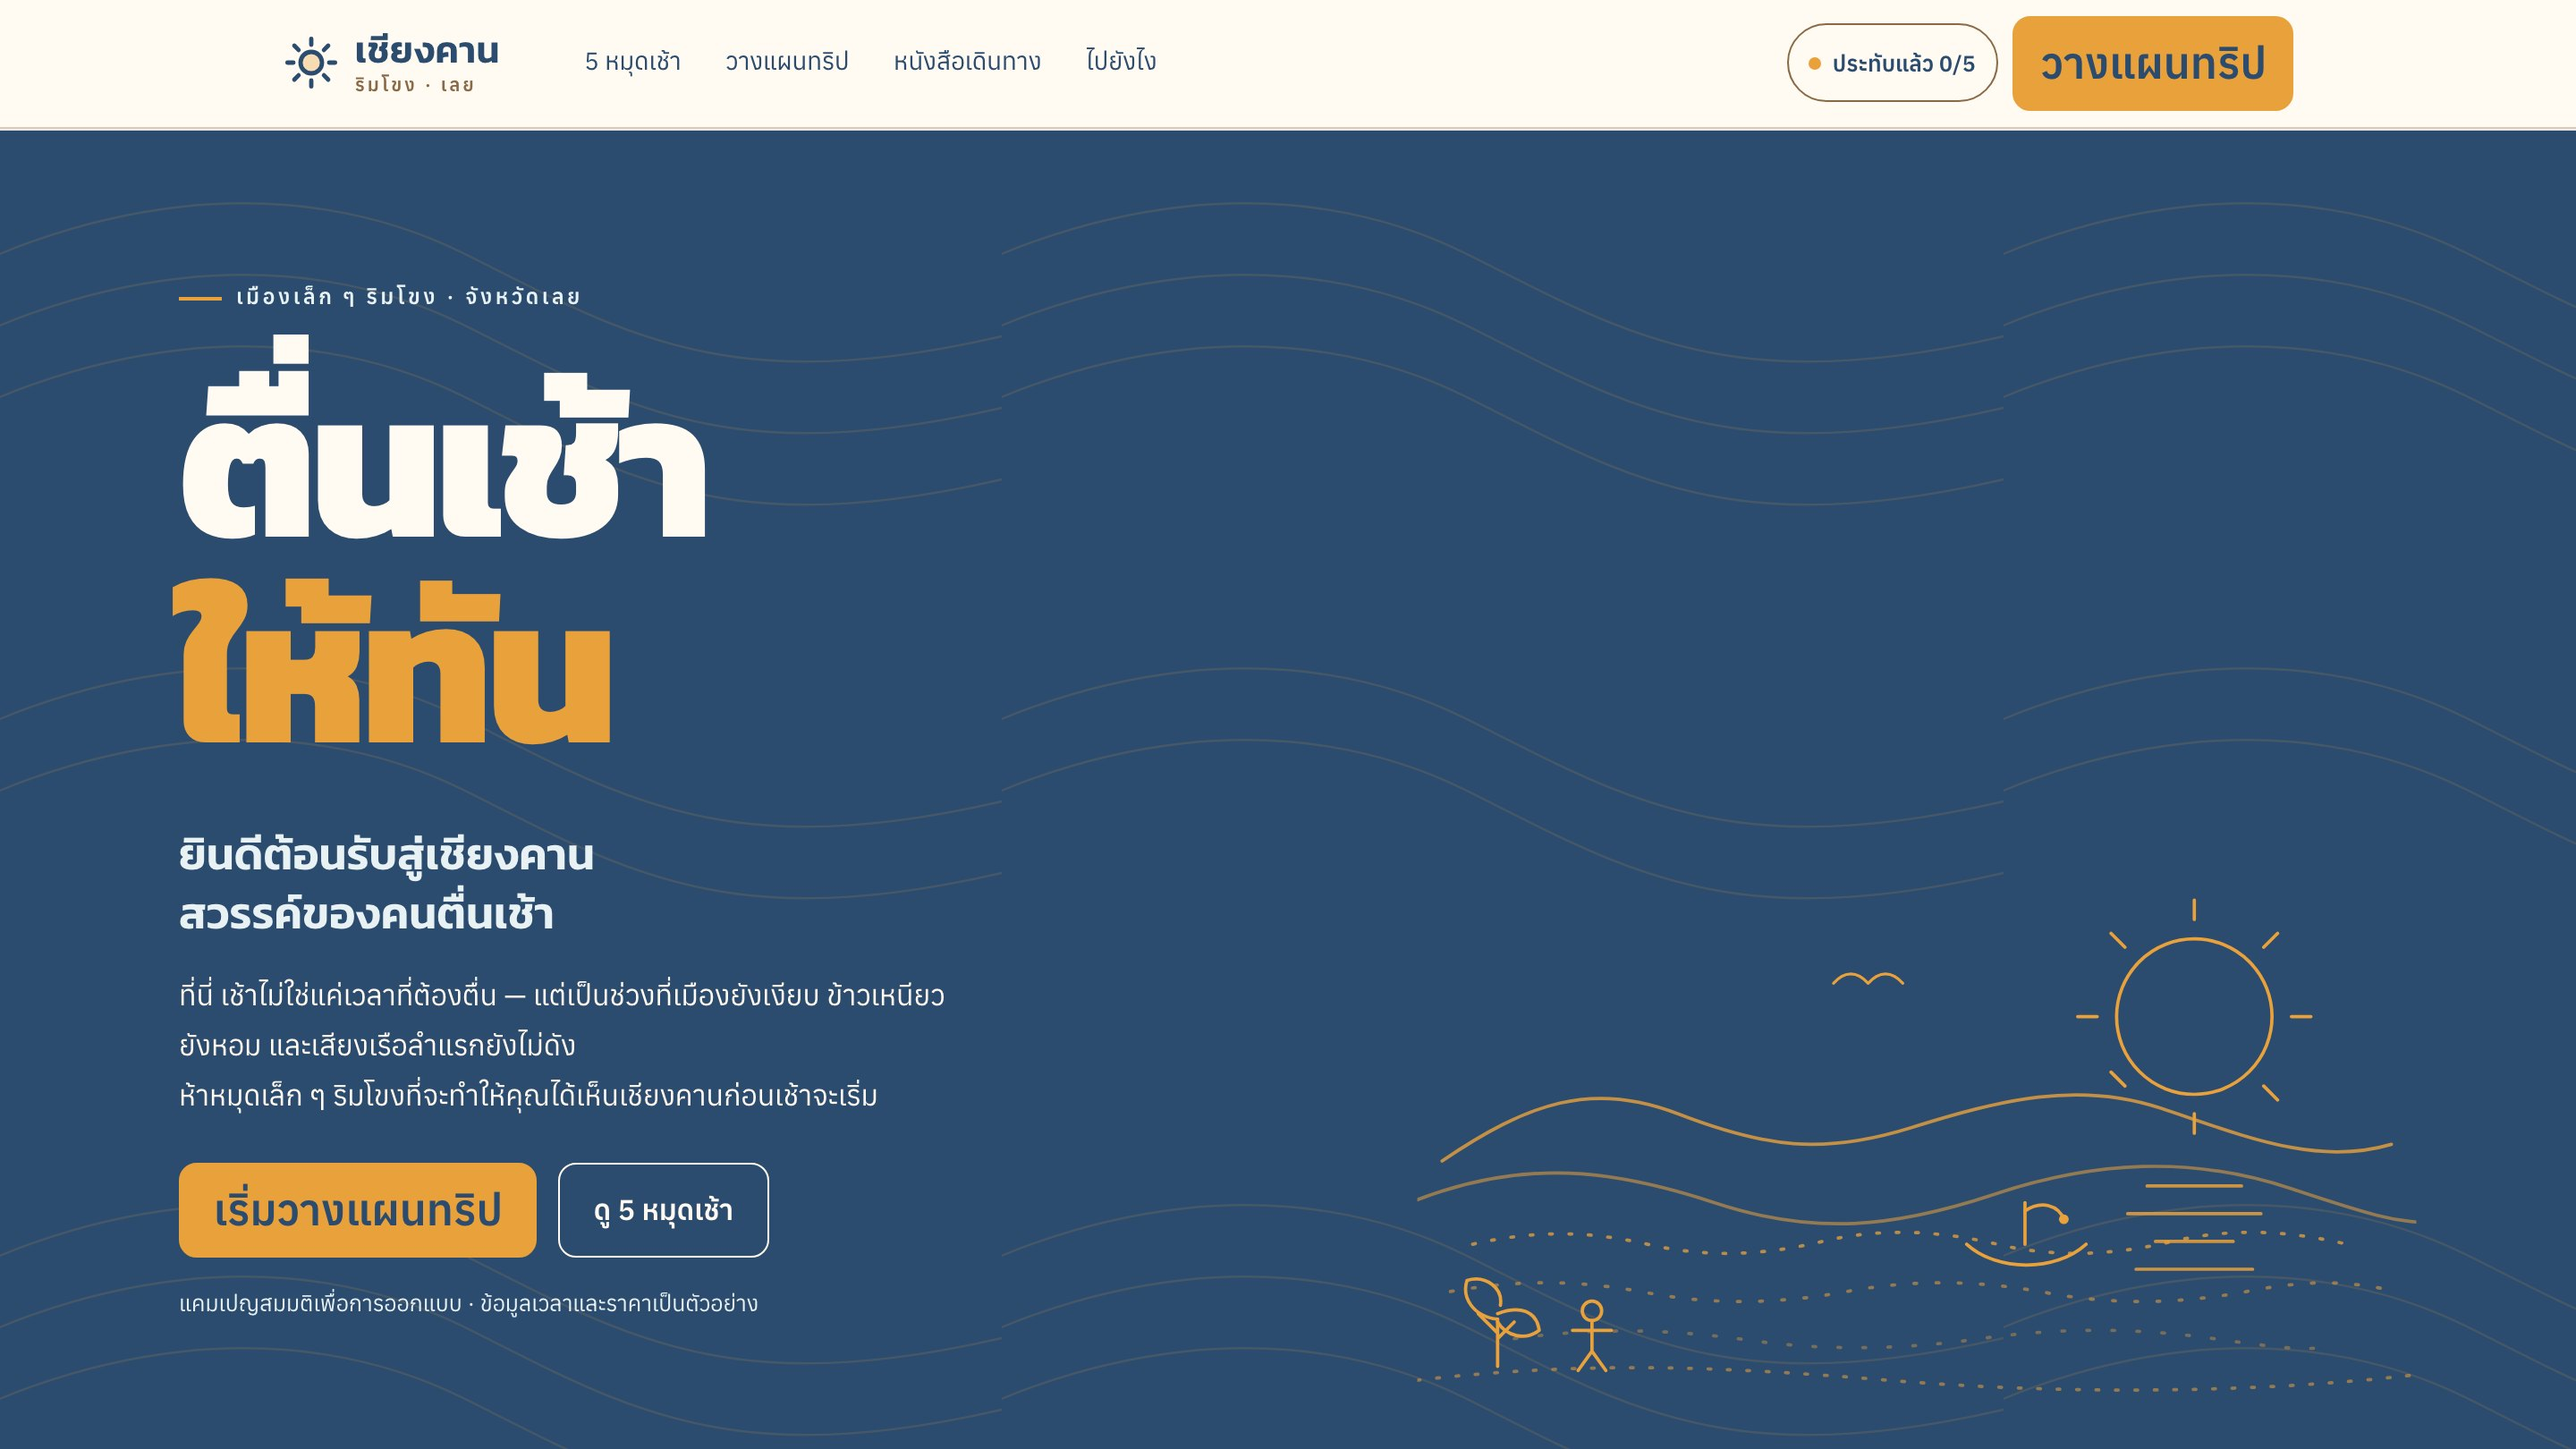
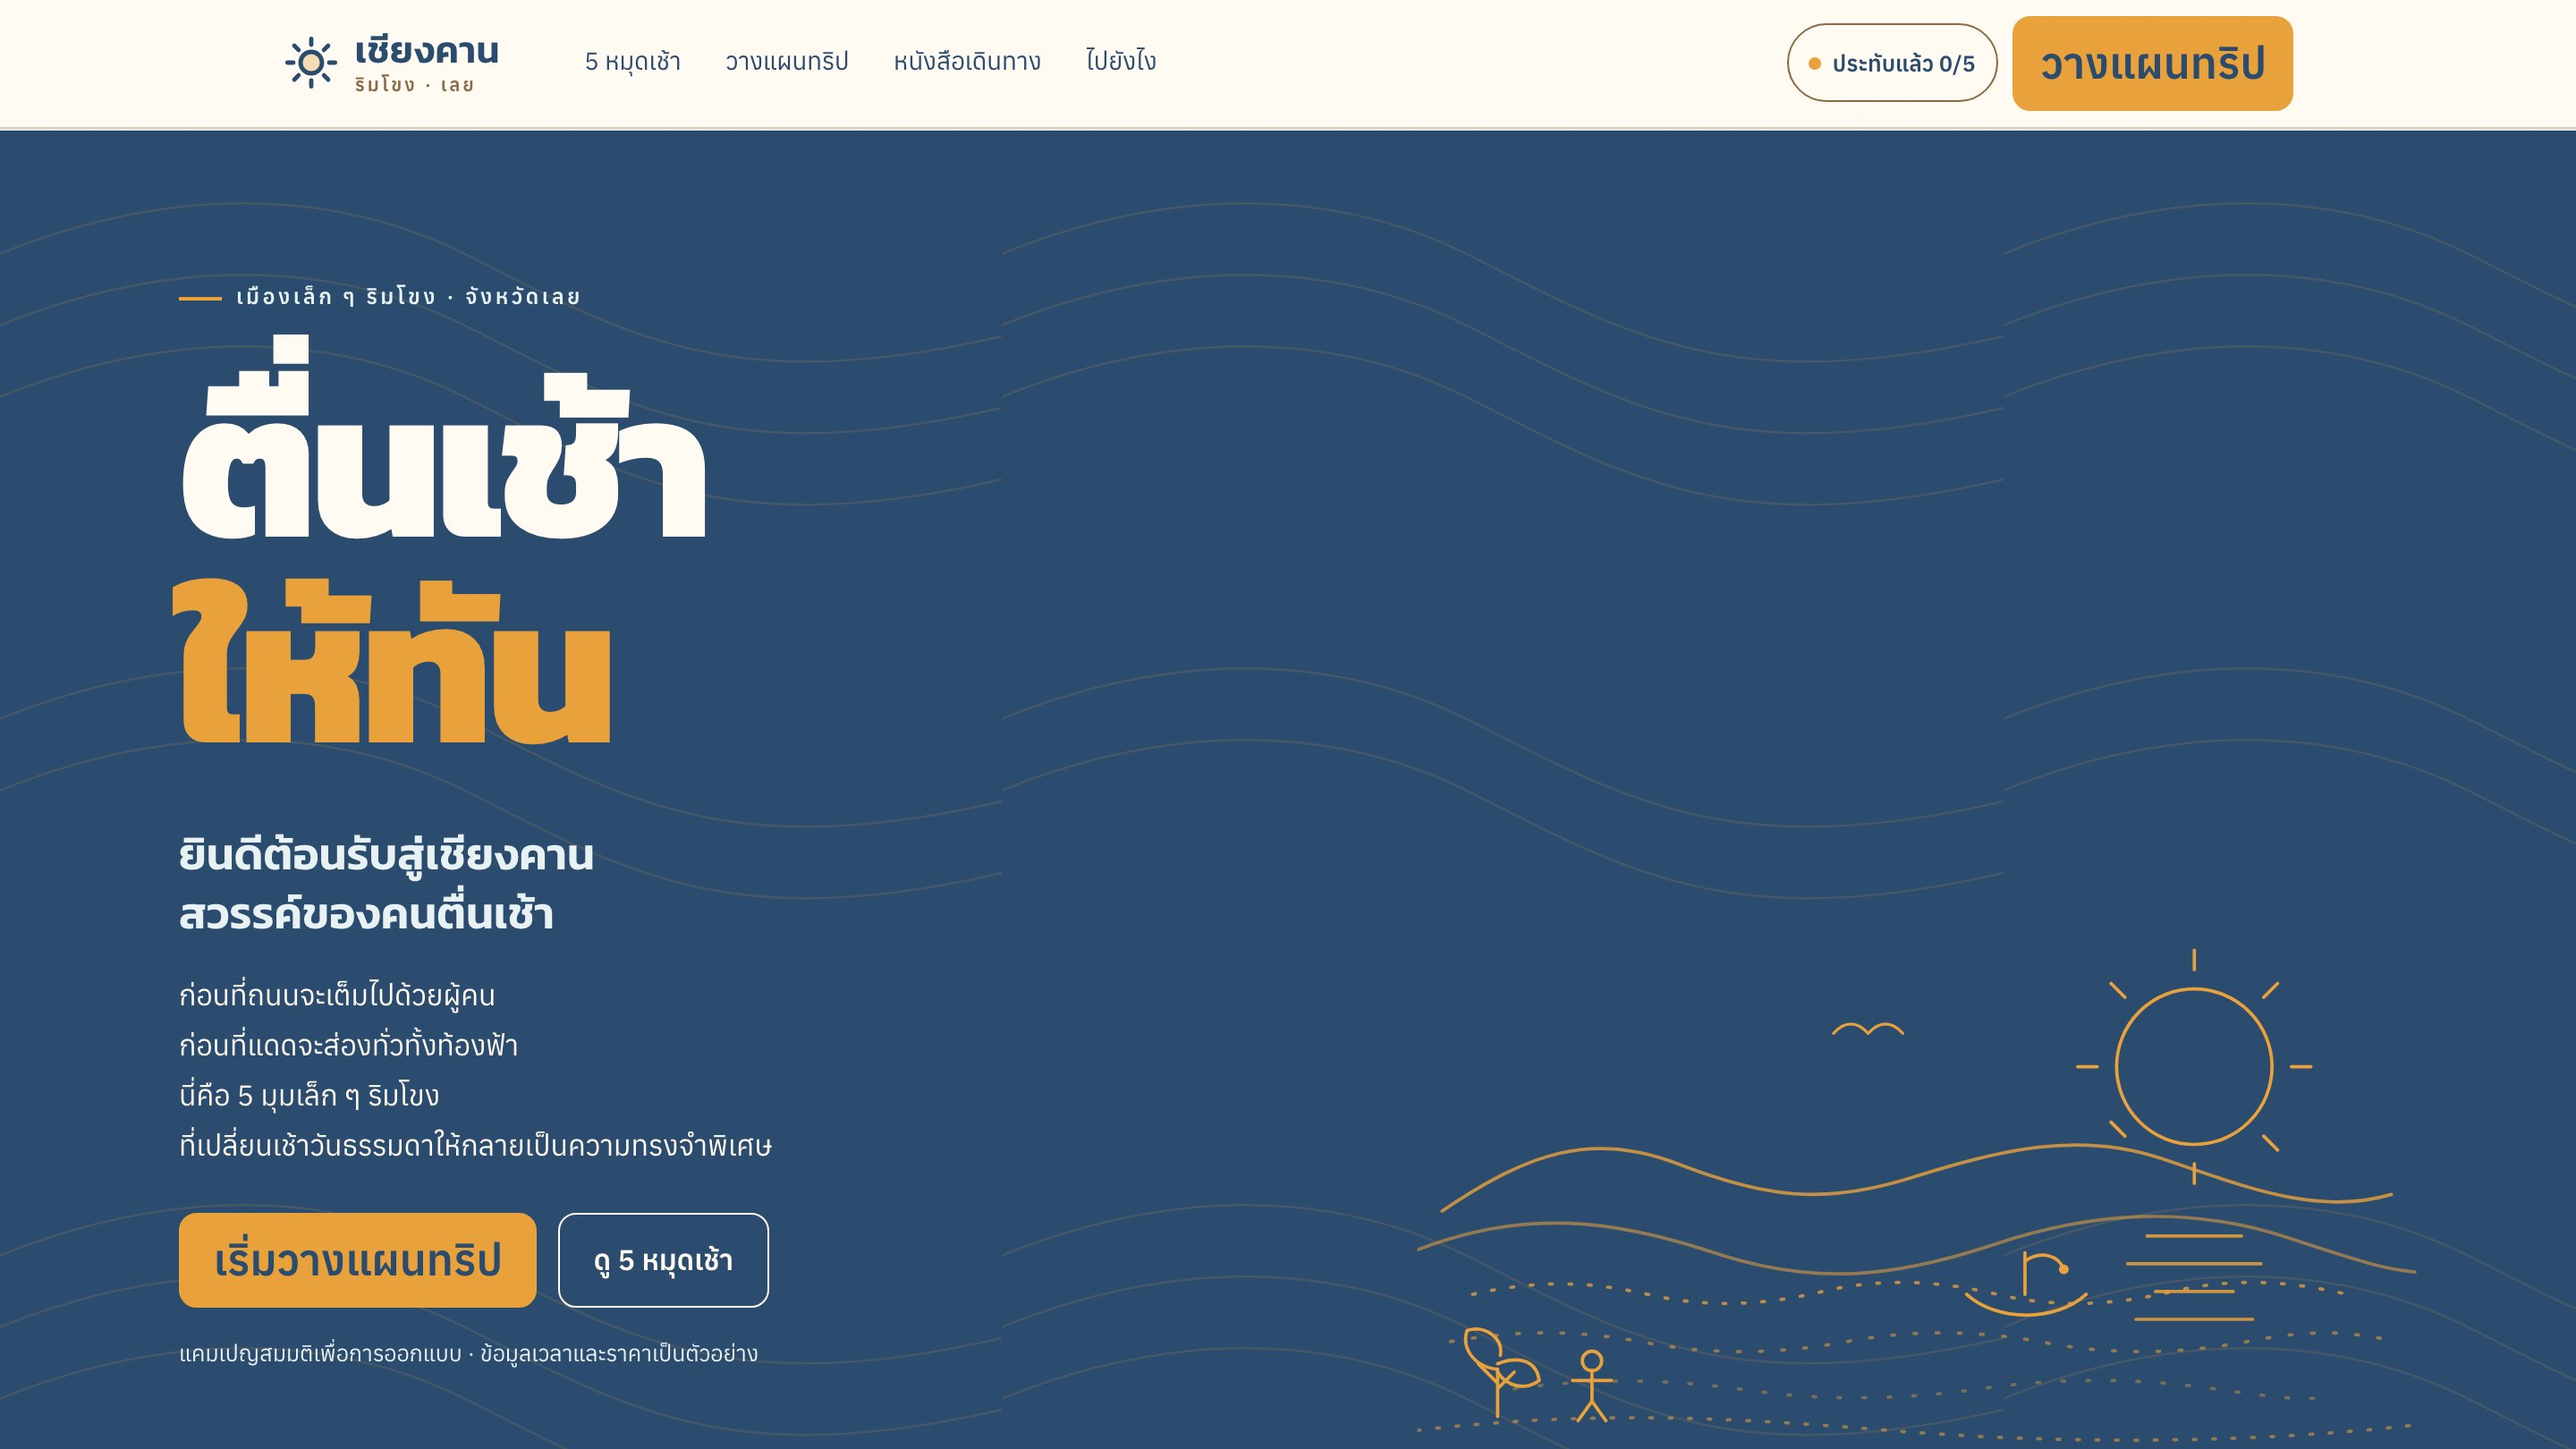
feat: update Chiang Khan hero copy
Use the approved hero lines: welcome, paradise for early risers, the street and sky before the day starts, and five corners by the Mekong. Refresh the 1440/2880 cover.

Changed region(s): [[0.0625, 0.679, 0.375, 0.9568], [0.5625, 0.6481, 0.9062, 0.9877], [0.9062, 0.8642, 0.9375, 0.8951]]

diff --git a/chiang-khan/index.html b/chiang-khan/index.html
@@ -236,7 +236,7 @@ theme_color: "#2B4B6F"
           <p class="ck-eyebrow ck-eyebrow--light">เมืองเล็ก&nbsp;ๆ ริมโขง · จังหวัดเลย</p>
           <h1 id="ck-hero-title">ตื่นเช้า<br><span>ให้ทัน</span></h1>
           <p class="ck-hero__sub">ยินดีต้อนรับสู่เชียงคาน<br>สวรรค์ของคนตื่นเช้า</p>
-          <p class="ck-hero__lede">ที่นี่ เช้าไม่ใช่แค่เวลาที่ต้องตื่น — แต่เป็นช่วงที่เมืองยังเงียบ ข้าวเหนียวยังหอม และเสียงเรือลำแรกยังไม่ดัง<br>ห้าหมุดเล็ก&nbsp;ๆ ริมโขงที่จะทำให้คุณได้เห็นเชียงคาน<span class="ck-nowrap">ก่อนเช้าจะเริ่ม</span></p>
+          <p class="ck-hero__lede">ก่อนที่ถนนจะเต็มไปด้วยผู้คน<br>ก่อนที่แดดจะส่องทั่วทั้งท้องฟ้า<br>นี่คือ 5 มุมเล็ก&nbsp;ๆ ริมโขง<br>ที่เปลี่ยนเช้าวันธรรมดาให้กลายเป็น<span class="ck-nowrap">ความทรงจำพิเศษ</span></p>
           <div class="ck-hero__actions">
             <a class="ck-btn ck-btn--gold" href="#planner">เริ่มวางแผนทริป</a>
             <a class="ck-btn ck-btn--outline-light" href="#stops">ดู 5 หมุดเช้า</a>
